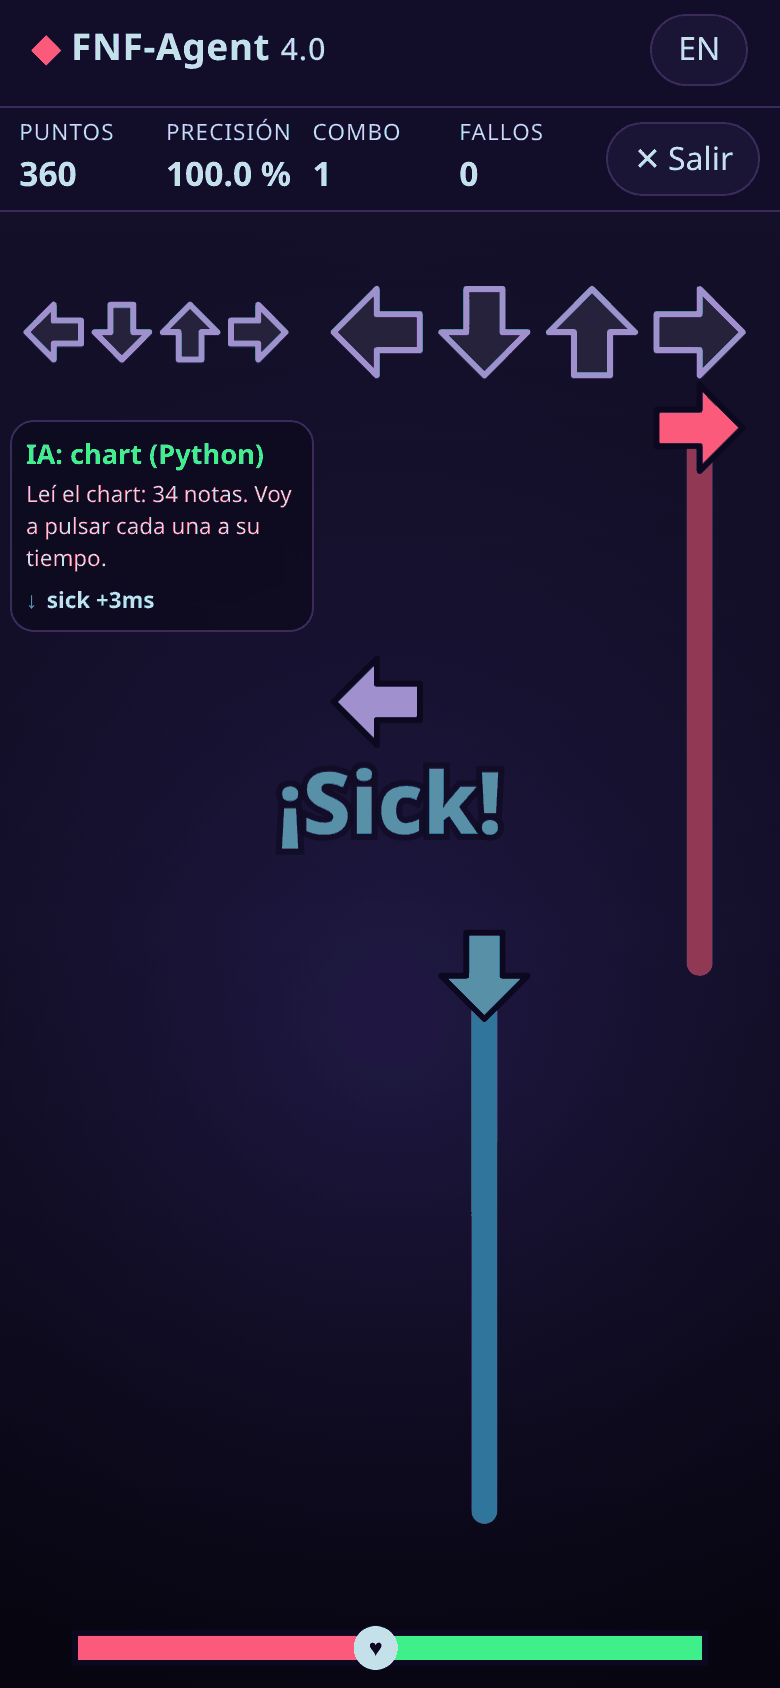
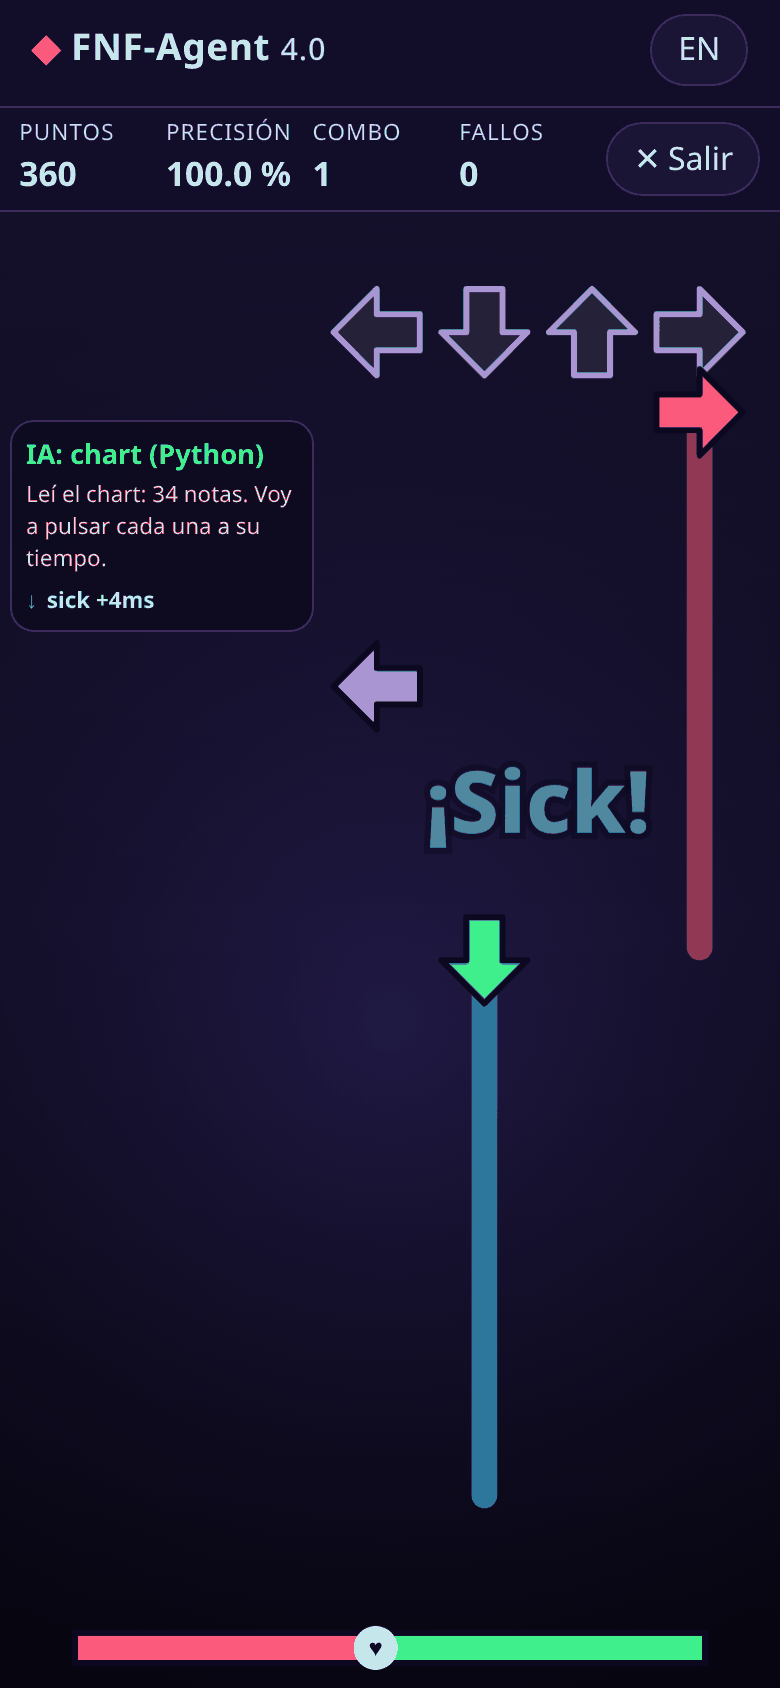
web: el panel de la IA ya no tapa carriles (columna propia en PC; en el móvil reemplaza los carriles del rival) + prueba e2e

diff --git a/web/vista/lienzo.js b/web/vista/lienzo.js
@@ -40,28 +40,37 @@ export class Lienzo {
     this.W = w; this.H = h; this.dpr = dpr;
   }
 
-  geometria() {
+  // `reserva`: px a la izquierda ocupados por el panel de la IA (0 si no se ve).
+  geometria(reserva = 0) {
     const { W } = this;
     const dos = W >= 640;
-    // En pantallas anchas: rival a la izquierda y jugador a la derecha, del mismo tamaño.
+    if (!dos && reserva > 0) {
+      // Móvil con panel de IA: el panel ocupa la columna del rival; solo se dibuja el jugador.
+      const ancho = Math.min(120, (W * 0.6 * 0.92) / 4);
+      const cx = W * 0.69;
+      return { dos, ancho, anchoR: 0, recY: Math.max(60, ancho * 0.85), jugador: [0, 1, 2, 3].map((i) => cx + (i - 1.5) * ancho), rival: null, centro: cx };
+    }
+    // En pantallas anchas: rival a la izquierda y jugador a la derecha (después del panel, si lo hay).
     // En el móvil: rival pequeño a la izquierda (40 %) y jugador grande a la derecha (60 %).
-    const zonaJ = dos ? W / 2 : W * 0.6;
+    const x0 = dos ? Math.min(reserva, W * 0.4) : 0;
+    const Wu = W - x0;
+    const zonaJ = dos ? Wu / 2 : W * 0.6;
     const ancho = Math.min(120, (zonaJ * 0.92) / 4);
     const anchoR = dos ? ancho * 0.8 : Math.min(ancho * 0.7, (W * 0.38 * 0.92) / 4);
-    const jugadorX = dos ? W * 0.73 : W * 0.69;
-    const rivalX = dos ? W * 0.27 : W * 0.2;
+    const jugadorX = dos ? x0 + Wu * 0.73 : W * 0.69;
+    const rivalX = dos ? x0 + Wu * 0.27 : W * 0.2;
     const lanesX = (cx, a) => [0, 1, 2, 3].map((i) => cx + (i - 1.5) * a);
-    return { dos, ancho, anchoR, recY: Math.max(60, ancho * 0.85), jugador: lanesX(jugadorX, ancho), rival: lanesX(rivalX, anchoR) };
+    return { dos, ancho, anchoR, recY: Math.max(60, ancho * 0.85), jugador: lanesX(jugadorX, ancho), rival: lanesX(rivalX, anchoR), centro: x0 + Wu / 2 };
   }
 
   efecto(e) { this.efectos.push({ ...e, desde: performance.now() }); }
   rayo(lane, texto, color) { this.rayos.push({ lane, texto, color, desde: performance.now() }); }
 
-  dibujar(juego, t, { velocidad = 1, bpm = 120, color = "#7c5cff", mostrarIA = false } = {}) {
+  dibujar(juego, t, { velocidad = 1, bpm = 120, color = "#7c5cff", mostrarIA = false, reserva = 0 } = {}) {
     this.ajustar();
     const { c, W, H, dpr } = this;
     c.setTransform(dpr, 0, 0, dpr, 0, 0);
-    const g = this.geometria();
+    const g = this.geometria(reserva);
     const px = 0.45 * velocidad * Math.min(1.4, Math.max(0.75, H / 800));
     const ahora = performance.now();
 
@@ -99,7 +108,7 @@ export class Lienzo {
     }
 
     // receptores
-    const pintarReceptores = (xs, tam, teclas) => xs.forEach((x, lane) => {
+    const pintarReceptores = (xs, tam, teclas) => xs && xs.forEach((x, lane) => {
       const on = teclas?.[lane];
       flecha(c, x, g.recY, tam * (on ? 0.86 : 0.8), lane, on ? COLORES[lane] + "aa" : "#ffffff14", on ? "#fff" : "#9a93c8", 3);
     });
@@ -149,7 +158,7 @@ export class Lienzo {
         c.globalAlpha = 1;
       } else if (e.tipo === "popup") {
         c.globalAlpha = Math.min(1, (1 - p) * 2);
-        const cx = g.dos ? W * 0.5 : W / 2;
+        const cx = g.centro;
         const y = H * 0.45 - p * 30;
         c.textAlign = "center";
         c.font = `800 ${Math.round(Math.min(46, W / 9) * (1 + (p < 0.1 ? (0.1 - p) * 3 : 0)))}px system-ui, sans-serif`;

diff --git a/web/app.js b/web/app.js
@@ -123,6 +123,13 @@ async function crearJugador() {
   return new JugadorHumano({ botones: [...document.querySelectorAll("#pad .tecla")] });
 }
 
+// Ancho (px) que ocupa el panel de la IA a la izquierda, para que no tape ningún carril.
+function reservaPanel() {
+  const p = $("#panel-ia");
+  if (p.classList.contains("oculto")) return 0;
+  return p.offsetLeft + p.offsetWidth + 12;
+}
+
 function panelIA(jugador) {
   const ver = jugador.tipo !== "humano";
   $("#panel-ia").classList.toggle("oculto", !ver);
@@ -217,7 +224,7 @@ function bucle() {
     juego.actualizar(t).forEach(partida.manejar);
     if (!juego.resultado) jugador.cuadro(t);
   }
-  lienzo.dibujar(juego, t, { velocidad: partida.velocidad, bpm: partida.chart.bpm, color: partida.info.color || "#7c5cff", mostrarIA: jugador.tipo !== "humano" });
+  lienzo.dibujar(juego, t, { velocidad: partida.velocidad, bpm: partida.chart.bpm, color: partida.info.color || "#7c5cff", mostrarIA: jugador.tipo !== "humano", reserva: reservaPanel() });
   const r = juego.resumen();
   pon("#hud-puntos", r.puntos.toLocaleString(idioma()));
   pon("#hud-precision", `${(r.precision * 100).toFixed(1)} %`);
@@ -292,6 +299,7 @@ addEventListener("keydown", (e) => { if (e.key === "Escape" && partida && !parti
 $("#btn-idioma").addEventListener("click", () => { cambiarIdioma(); pintarCanciones(); });
 
 window.__fnf = {
+  geometria: () => lienzo.geometria(reservaPanel()),
   estado: () => partida ? { t: partida.juego.t, ...partida.juego.resumen(), jugador: partida.jugador.nombre } : null,
   ultimo: null,
   // Solo para pruebas automáticas: próximas notas del jugador.

diff --git a/web/estilos.css b/web/estilos.css
@@ -58,7 +58,7 @@ input[type=range] { width: 100%; accent-color: var(--acento); min-height: 32px; 
 .hud b { font-size: 1.05rem; font-variant-numeric: tabular-nums; }
 .escena { position: relative; flex: 1; min-height: 0; }
 #lienzo { width: 100%; height: 100%; display: block; touch-action: none; }
-.panel-ia { position: absolute; left: .5rem; bottom: 2.6rem; width: min(330px, calc(100% - 1rem)); background: #0d0a1fd9; border: 1px solid var(--borde); border-radius: 12px; padding: .5rem .7rem; font-size: .82rem; backdrop-filter: blur(6px); pointer-events: none; }
+.panel-ia { position: absolute; left: .5rem; bottom: 2.6rem; width: min(320px, 26vw); background: #0d0a1fd9; border: 1px solid var(--borde); border-radius: 12px; padding: .5rem .7rem; font-size: .82rem; backdrop-filter: blur(6px); pointer-events: none; }
 .panel-ia h3 { margin: 0 0 .2rem; font-size: .85rem; color: var(--ok); }
 .panel-ia .piensa { margin: 0 0 .3rem; color: #ffe08a; min-height: 1em; }
 .panel-ia ol { margin: 0; padding: 0; list-style: none; display: grid; gap: .15rem; }
